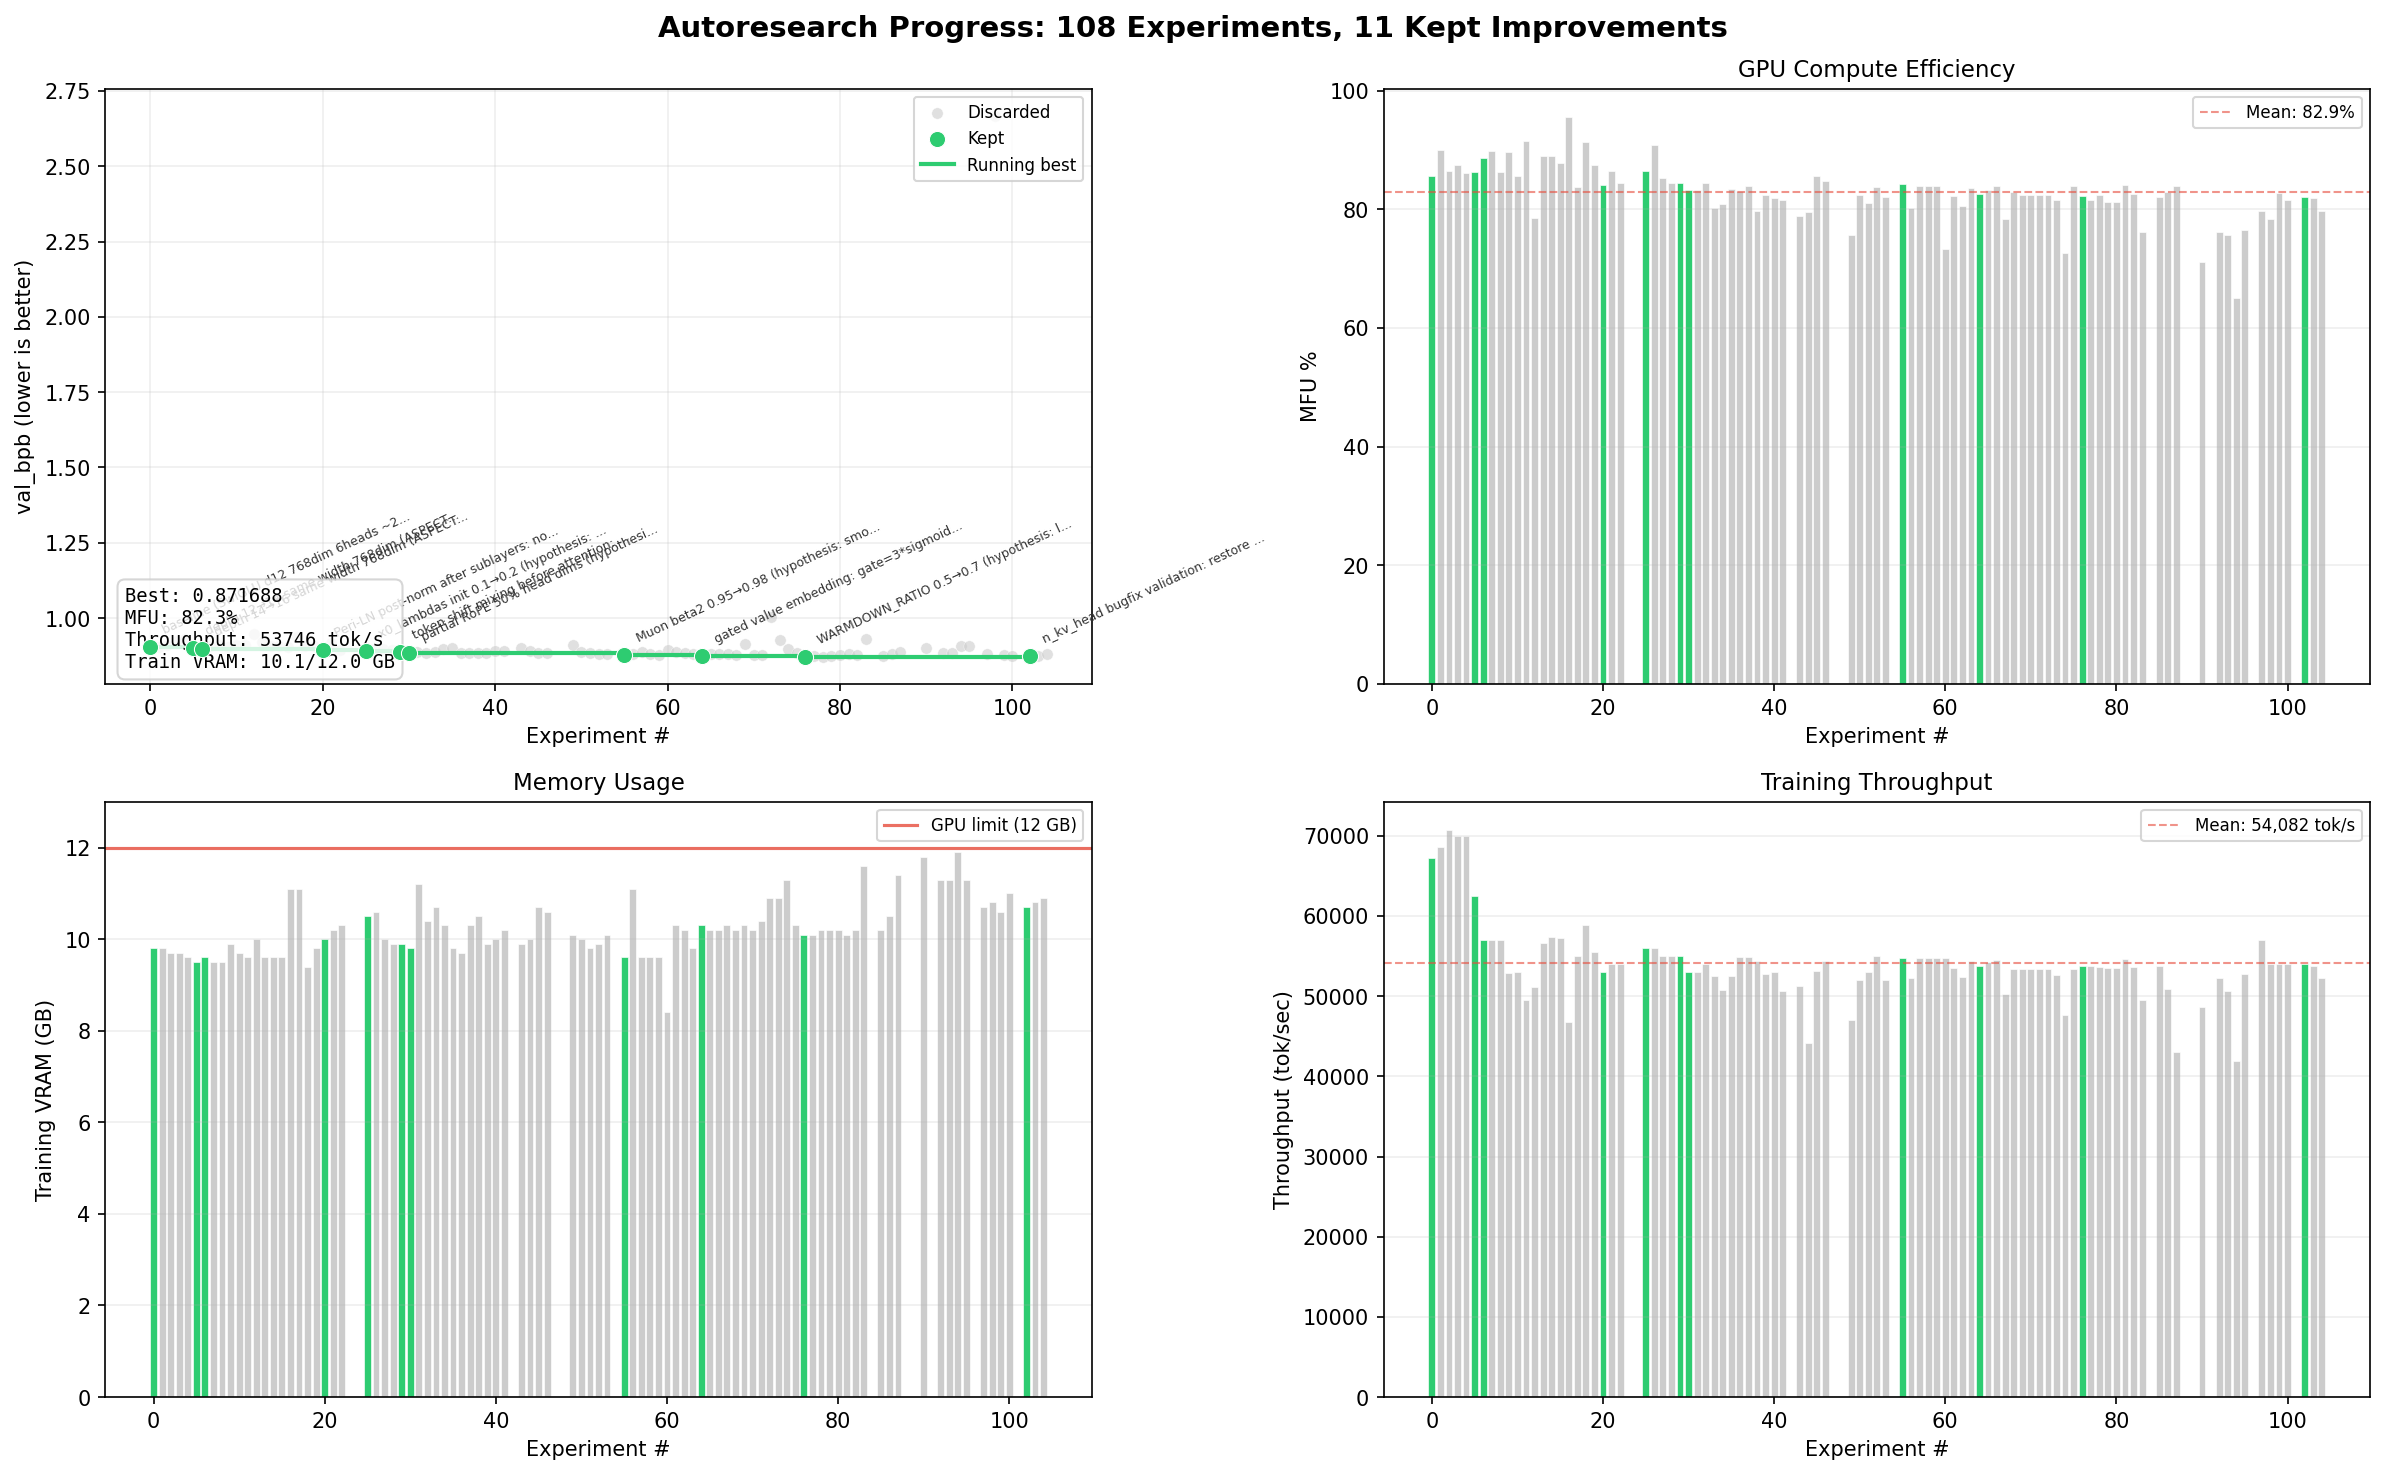
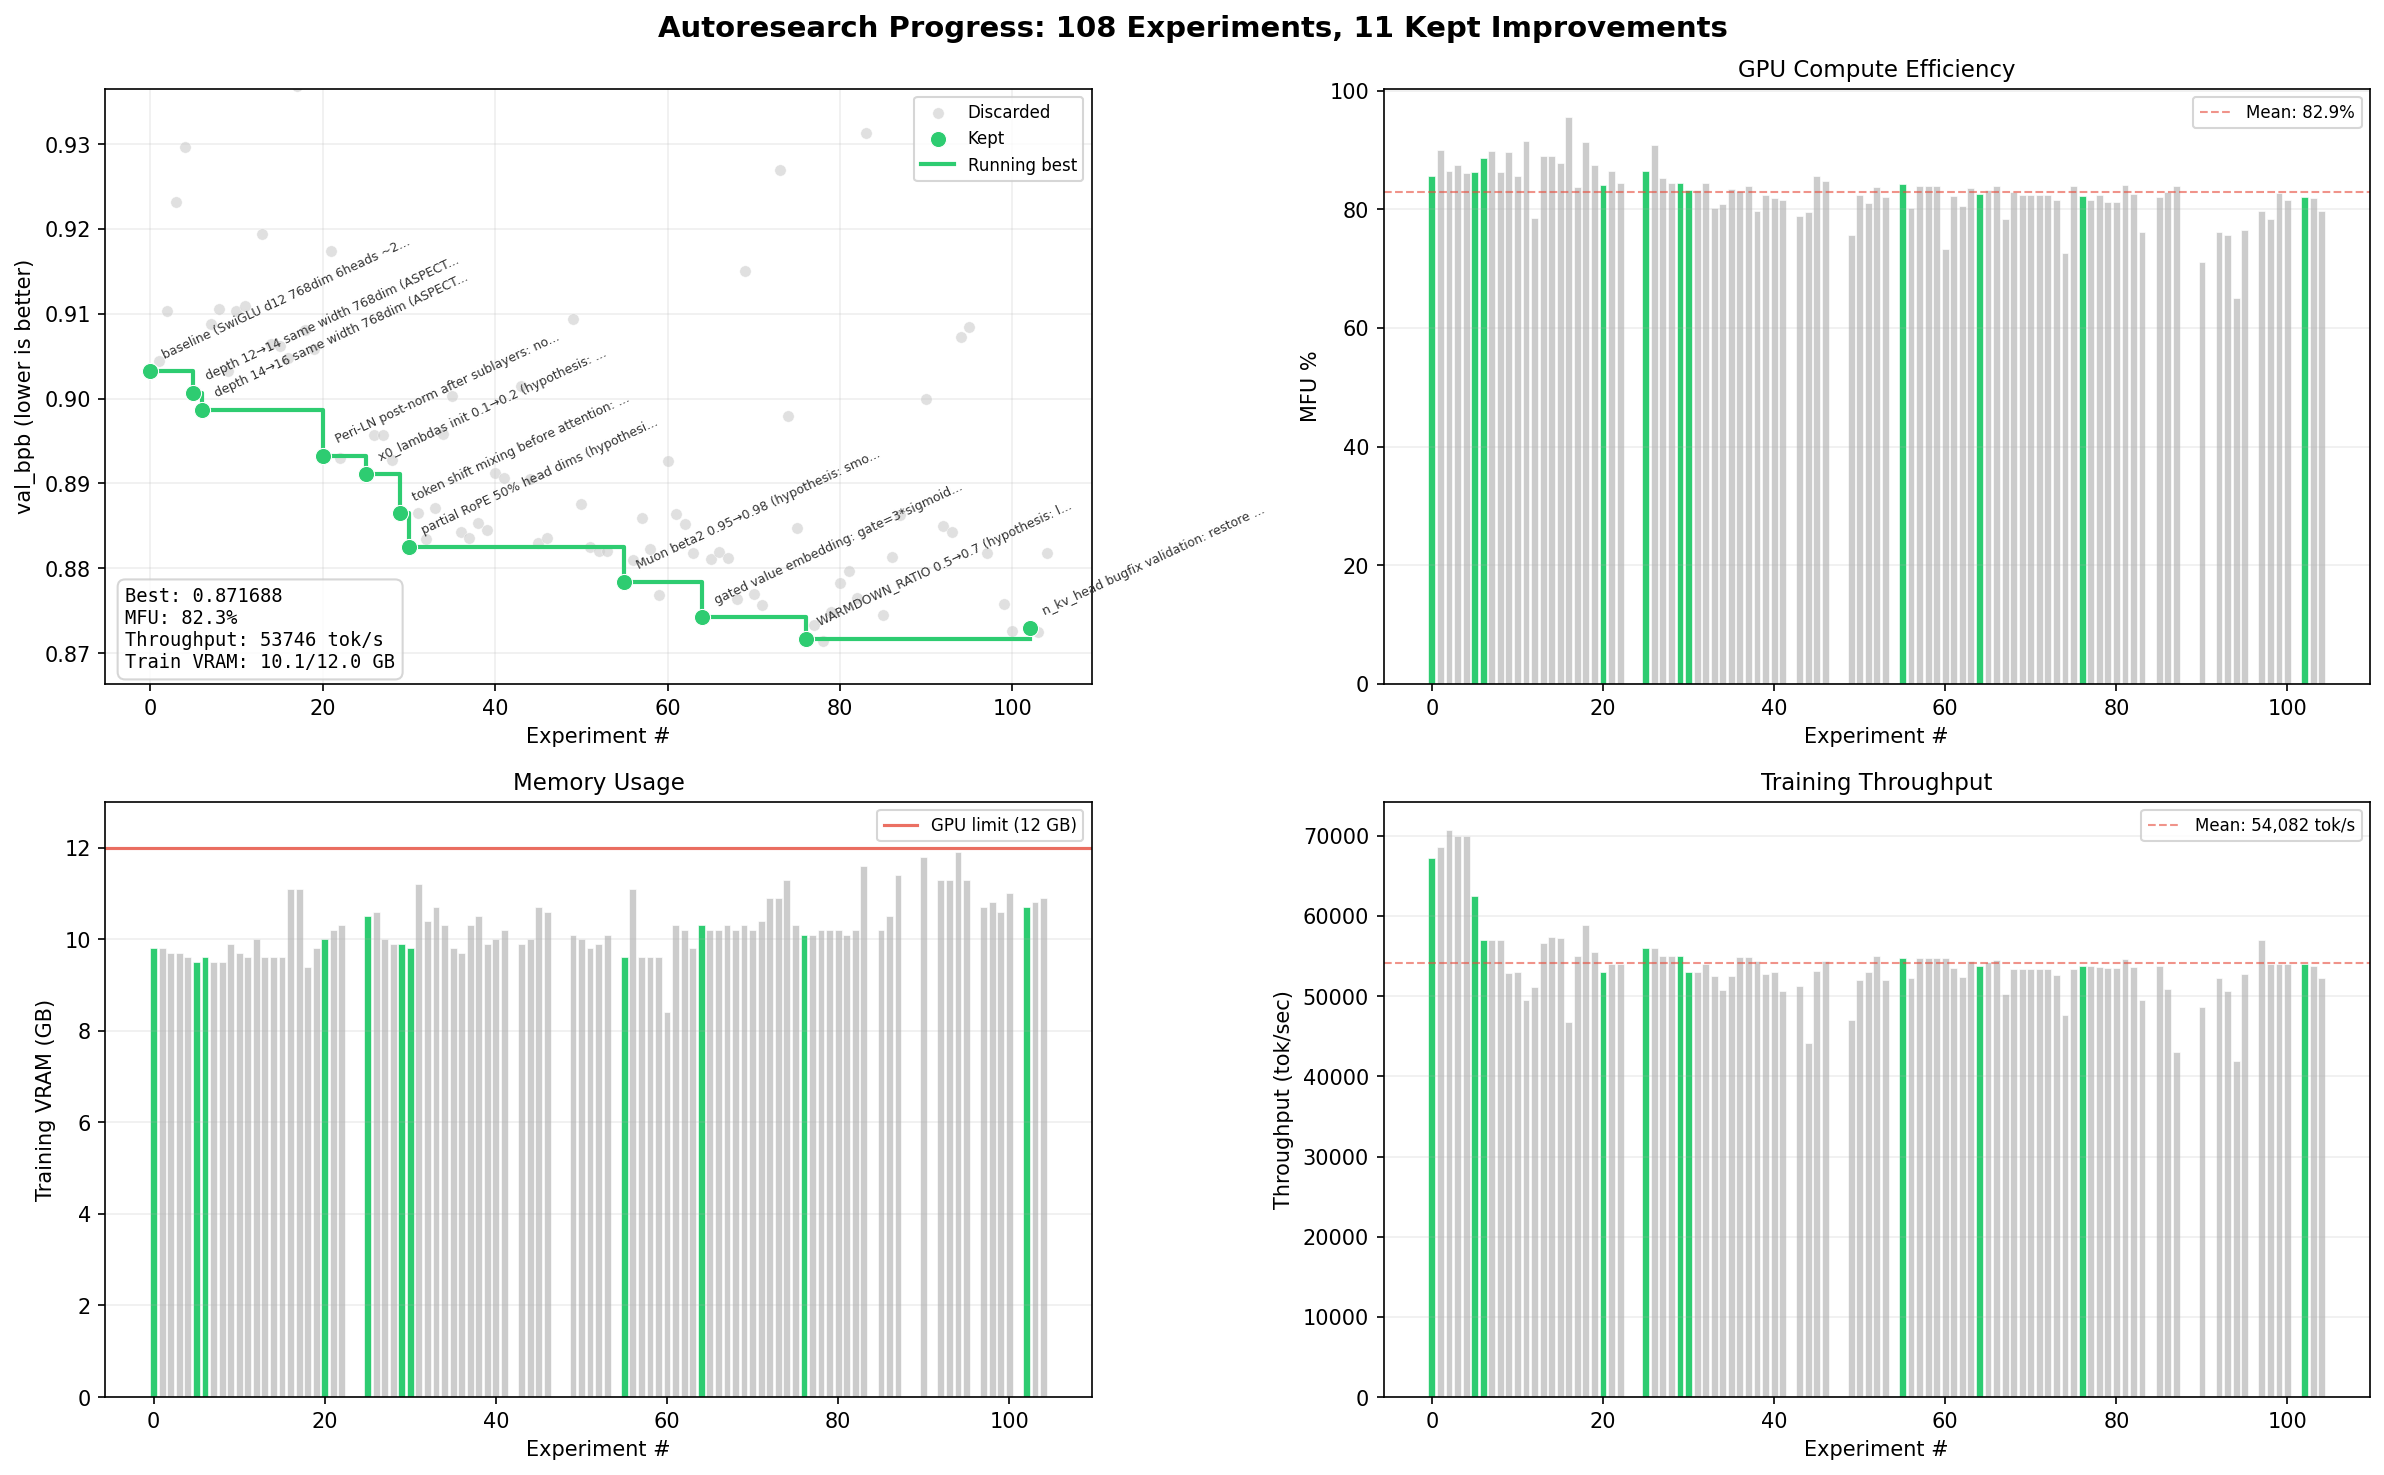
fix: auto-zoom val_bpb y-axis to exclude catastrophic outliers (median+0.05 cap)

diff --git a/plot_results.py b/plot_results.py
@@ -73,6 +73,14 @@ def plot(df, save_path=None):
                 fontsize=6, color="#333333", rotation=25,
                 ha="left", va="bottom",
             )
+    # Auto-zoom y-axis to useful range (exclude extreme outliers)
+    if not valid.empty:
+        valid_bpb = valid["val_bpb"]
+        bpb_median = valid_bpb.median()
+        # Cap y-axis at median + 0.05 to exclude catastrophic outliers
+        y_max = min(valid_bpb.max(), bpb_median + 0.05)
+        y_min = valid_bpb.min() - 0.005
+        ax_bpb.set_ylim(y_min, y_max)
     ax_bpb.set_xlabel("Experiment #", fontsize=10)
     ax_bpb.set_ylabel("val_bpb (lower is better)", fontsize=10)
     ax_bpb.legend(fontsize=8, loc="upper right")
